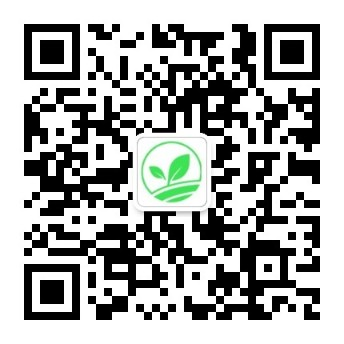
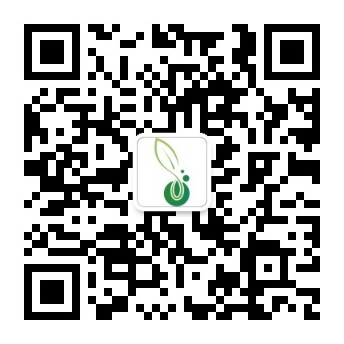
ok

Changed region(s): [[0.407, 0.3779, 0.6105, 0.6105]]

diff --git a/yindao.html b/yindao.html
@@ -337,8 +337,8 @@ animation();</script>
 	
 		
 
-<li id="menu-item-50732" class="menu-item menu-item-type-custom menu-item-object-custom menu-item-50732"><a href="https://songshu.youyacao.com/detail/240.html">开源协议</a></li>
-<li id="menu-item-50814" class="menu-item menu-item-type-custom menu-item-object-custom menu-item-50814"><a href="https://bbs.youyacao.com/thread-1025-1-1.html">论坛版规</a></li>
+<li id="menu-item-50732" class="menu-item menu-item-type-custom menu-item-object-custom menu-item-50732"><a href="https://doc.youyacao.com/web/#/22/1824">自运营产品</a></li>
+<li id="menu-item-50814" class="menu-item menu-item-type-custom menu-item-object-custom menu-item-50814"><a href="https://doc.youyacao.com/web/#/22/1821">全新logo</a></li>
 
 </ul>
 </li>
@@ -350,24 +350,21 @@ animation();</script>
 
 </ul></div> <div class="footer-friends">
 <div class="footer-friends-title">
-<a href="#" rel="footer-title">合作伙伴</a>
+<a href="#" rel="footer-title">成功·案例——以下知名单位选择过优雅草</a>
 </div>
 <ul>
-<li><a href="https://account.huaweicloud.com/obmgr/invitation/invitation.html?bpName=000000010000000291886B0A2E4024E22DB6789E5AAAD73E96CC7D576D6872316096A637C61A9BA4D34D1496359F380BAFDC4FC22FA424EF8A6CCB18BCFB9522A6B94DA14AFA812C&inviteCode=0000000100000002F4B835326DB2A9F343D6AF0C91ED0AC2B47FD3E016331D35531A72AFE4B8B36DB63208DA5C6BD61F190BBDFC0897285C&bindType=1&isDefault=1" rel="noopener" title="华为30多年的ICT技术积累和数字化转型经验" target="_blank">华为云</a></li>
-<li><a href="https://partner.cloud.tencent.com/invitation/1000009941225fd73659498d2" rel="noopener" title="腾讯云，腾讯集团倾力打造的云计算品牌" target="_blank">腾讯云</a></li>
-<li><a href="https://www.goeasy.io/cn/signup.html?code=b94c9a85" rel="noopener" title="四川先进技术服务企业·专注websocket" target="_blank">goeasy</a></li>
-<li><a href="https://www.zzidc.com/main/member/initRegister?agentpand=630187" rel="friend noopener" title="曾风靡一时的老牌IDC" target="_blank">景安</a></li>
+<li><a href="https://www.winshare.com.cn/" rel="noopener" title="教育改革的重大成果之一" target="_blank">国企·新华文轩</a></li>
+<li><a href="http://www.minmetals.com.cn/" rel="noopener" title="腾讯云，腾讯集团倾力打造的云计算品牌" target="_blank">央企·五矿资本</a></li>
+<li><a href="http://www.sino-commercial.com/" rel="noopener" title="创始于1954年，前身是以香港中资出版机构" target="_blank">国企·中华商务</a></li>
+<li><a href="https://www.chuanjiujituan.com/" rel="friend noopener" title="经四川省委、省政府同意组建的大型综合性国有企业" target="_blank">国企·川酒集团</a></li>
 <li><a href="https://secop.yunaq.com/customer/api/v1/public/biz-opp/0/5a9f449545475e77a85657f6" rel="noopener" title="国内顶级B/S端防御单位·权威安全联盟" target="_blank">知道创宇</a></li>
 
 
 <li><a href="https://www.volcengine.com/?utm_source=5&utm_medium=sembaidu&utm_term=sem_baidu_vg_pz_dc01&utm_campaign=vgbdpzztn1&utm_content=guanwang" rel="noopener" title="字节跳动旗下AI赋能产业计划" target="_blank">字节·火山引擎</a></li>
 
-<li><a href="https://tutucloud.com/?bd_vid=10721482495623757648" rel="noopener" title="图像智能·独角兽企业" target="_blank">涂图</a></li>
+<li><a href="http://www.sunyard.com/index-cn" rel="noopener" title="金融科技创新先锋，1996年成立于中国杭州" target="_blank">信雅达</a></li>
 
-<li><a href="https://gitee.com/enterprises?invite_code=Z2l0ZWUtMTk2ODg0MA%3D%3D" rel="noopener" title="国内版git-与之对应国内知名开源组织oschina" target="_blank">gitee</a></li>
 
-<li><a href="https://www.dcloud.io/" rel="noopener" title="
-W3C成员及HTML5中国产业联盟 发起单位" target="_blank">dcloud</a></li>
   
   <li><a href="#" rel="noopener" title="
   创业期一直以来的好伙伴" target="_blank">在下佩服</a></li>

diff --git a/licheng/index.html b/licheng/index.html
@@ -30,6 +30,45 @@
 	
 	
 	
+	<!-- Item l -->
+						<li>
+						  <div class="direction-r">
+						    <div class="flag-wrapper">
+						      <span class="hexa"></span>
+						      <span class="flag">20231129雪花版正式发布</span>
+						      <span class="time-wrapper"><span class="time">2023年11月29日</span></span>
+						    </div>
+						    <div class="desc">
+	
+1129雪花版正式发布
+2023年11月29日开发正式版v1.2.1发布-完善影音弹幕以及评论|完善用户安全机制订阅追剧收藏功能</div>
+						  </div>
+						</li>
+		
+	
+	
+	
+	
+	
+	<!-- Item r -->
+						<li>
+						  <div class="direction-r">
+						    <div class="flag-wrapper">
+						      <span class="hexa"></span>
+						      <span class="flag">20231116卓伊凡网站恢复上线</span>
+						      <span class="time-wrapper"><span class="time">2023年11月16日</span></span>
+						    </div>
+						    <div class="desc">
+	
+	20231116卓伊凡网站恢复上线
+	时隔2年卓伊凡网正式恢复上线，中途因忘记续费被抢注走2年，优雅草旗下ip：www.zhuoivan.com</div>
+						  </div>
+						</li>
+		
+	
+	
+	
+	
 	
 	<!-- Item l -->
 						<li>
